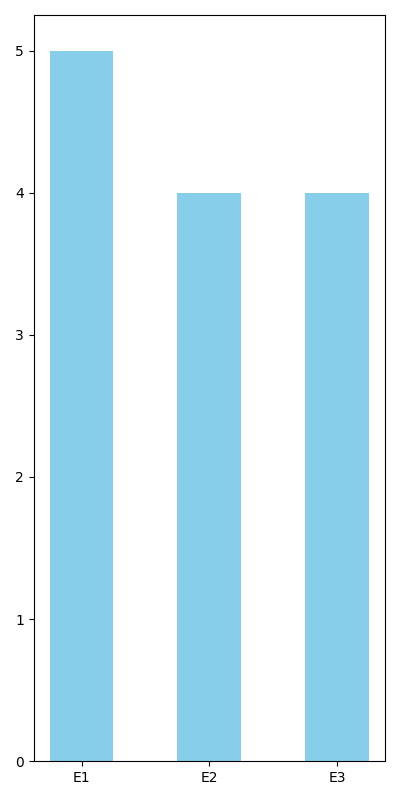
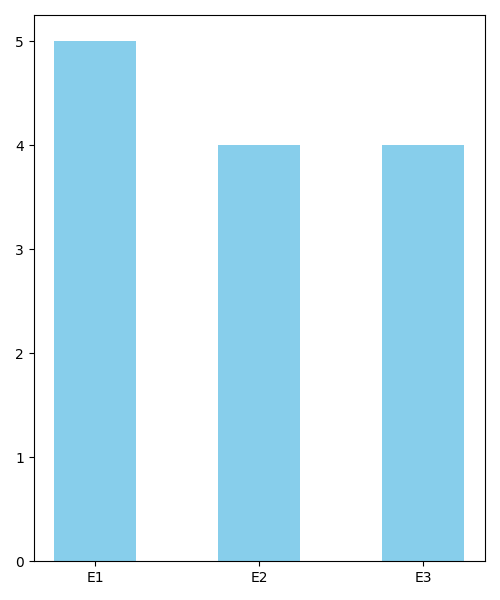
So far the app was working, just the graph was meesy and css of landing,plots was left

Changed region(s): [[0.03, 0.03, 0.99, 0.99], [0.09, 0.0, 0.96, 0.03], [0.75, 0.24, 0.78, 0.27]]

diff --git a/app.py b/app.py
@@ -139,6 +139,52 @@ def download_plot(filename):
 @app.route('/plots/<filename>',methods=['GET','POST'])
 def plots(filename):
     csvPath=os.path.join(PROCESSED,filename)
+
+    # data=np.genfromtxt(csvPath,dtype=str,delimiter=",",skip_header=1)
+
+    # levels=data[:,2]
+    # timestamps=data[:,1]
+    # events=data[:,4]
+
+    # time_plot_path= os.path.join('static/images',f"{filename}_event_time_plot.png")
+    # level_plot_path= os.path.join('static/images',f"{filename}_level_distribution.png")
+    # event_plot_path= os.path.join('static/images',f"{filename}_event_code_distribution.png")
+
+
+
+
+
+
+
+    
+
+
+
+
+
+
+
+
+
+
+
+
+
+
+
+
+
+
+
+
+
+
+
+
+
+
+
+
     Time=[]
 #    time_format=['Month','Day','Date','Time','Year']            
     with open(csvPath,'r') as file:
@@ -179,9 +225,10 @@ def plots(filename):
                     eventCount[event]+=1
     
     sortedEvents=sorted(eventCount.keys())
-
+    #x=np.array(filtered_timestamps)
+    
     x1=np.array(filtered_timestamps)
-    y1=np.array([timeCount[key] for key in filtered_timestamps])
+    y1=np.array([timeCount[x] if x in timeCount else 0 for x in filtered_timestamps])
     x2=np.array([level for level in levelCount.keys()])
     y2=np.array([levelCount[level] for level in levelCount.keys()])
     x3=np.array([event for event in sortedEvents])
@@ -196,7 +243,7 @@ def plots(filename):
 
 
 def plot_events_vs_time(x1,y1,filename):
-    plt.figure(figsize=(10,4))
+    plt.figure(figsize=(12,5))
     plt.plot(x1,y1,marker="o")
     plt.xticks(rotation=90)
     plt.grid(linewidth='0.5')
@@ -208,7 +255,7 @@ def plot_events_vs_time(x1,y1,filename):
     plt.close()
 
 def plot_level_distribution(x2,y2,filename):
-    plt.figure(figsize=(5,5))
+    plt.figure(figsize=(6,6))
     plt.pie(y2,labels=x2,autopct='%.2f%%',startangle=90)
     # plt.xlabel()
     # plt.ylabel()
@@ -218,7 +265,7 @@ def plot_level_distribution(x2,y2,filename):
     plt.close()
 
 def plot_event_code_distribution(x3,y3,filename):
-    plt.figure(figsize=(4,8))
+    plt.figure(figsize=(max(5,len(x3)*0.6),6))
     plt.bar(x3,y3,width=0.5,color='skyblue')
     # plt.xlabel()
     # plt.ylabel()
@@ -226,6 +273,28 @@ def plot_event_code_distribution(x3,y3,filename):
     plt.tight_layout()
     plt.savefig(f'static/images/{filename}-event-freq.png')
     plt.close()
+
+def get_secs_from_timestamp(timestamp):
+    Month_map={
+        'Jan':0,'Feb':1,'Mar':2,'Apr':3,'May':4,'Jun':5,
+        'Jul':6,'Aug':7,'Sep':8,'Oct':9,'Nov':10,'Dec':11
+    }
+    timestamp=timestamp.strip()
+    parts=timestamp.split(" ")
+
+    parts=list(parts)
+    if len(parts)==5:
+            day, month, date, time, year = parts
+    elif len(parts)==4:
+            month, date, time, year = parts
+        
+    h,m,s = map(int,time.split(":"))
+    totalSeconds = 3600*h + 60*m + s
+
+    return totalSeconds
+        
+
+
             
 if __name__=="__main__":
     app.run(debug=True)
